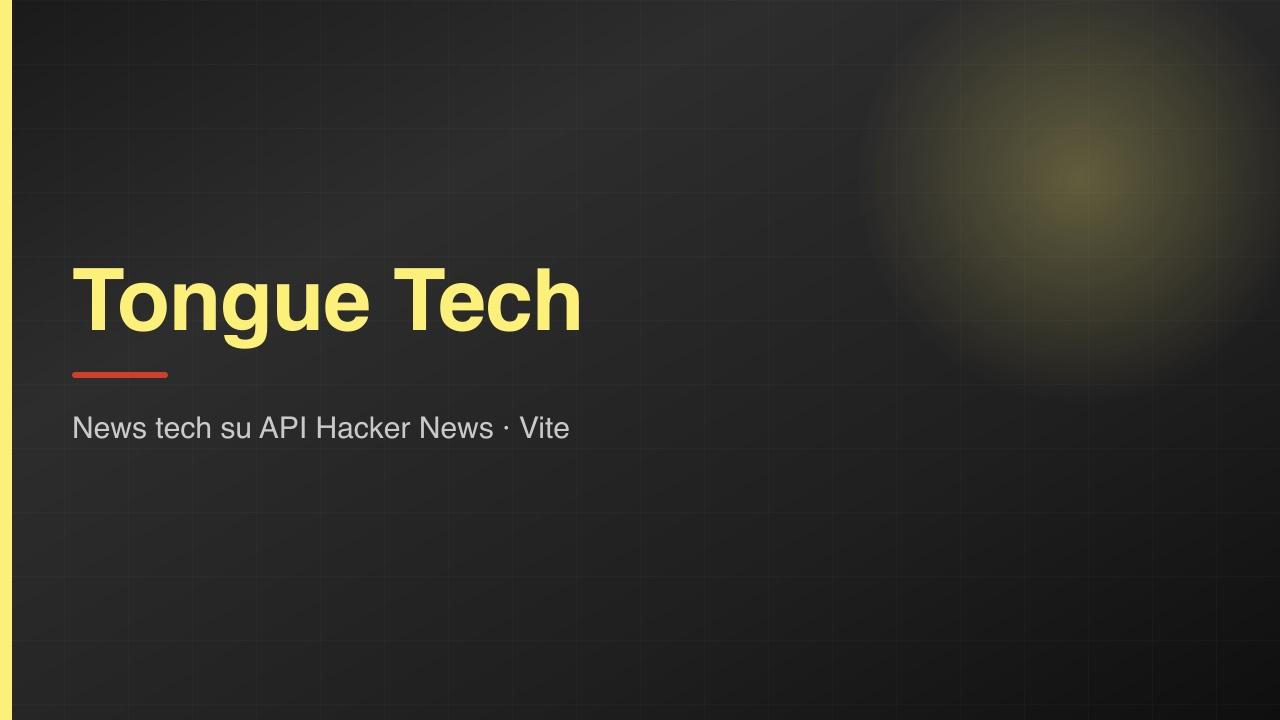
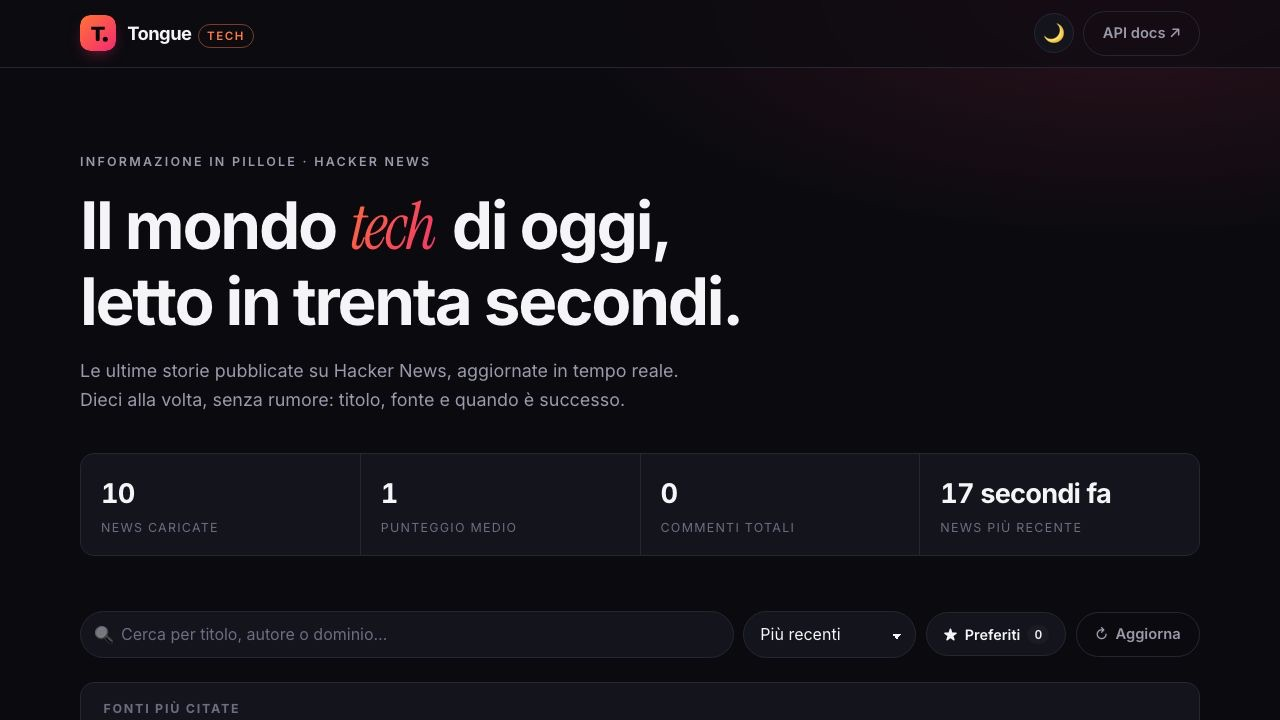
Collega Tongue Tech alla demo pubblicata
Il progetto e' online su turbor93.github.io/tongue-tech-news: il pulsante
"Prova la demo" precede ora quello al codice, perche' un'applicazione che
si puo' usare vale piu' di un repository da leggere.

Sostituita anche la copertina: al posto della tavola tipografica di ripiego
c'e' una schermata reale dell'applicazione, catturata dalla versione
pubblicata. La descrizione cita di conseguenza cosa fa davvero: carica le
storie in tempo reale dieci alla volta, con ricerca, ordinamento e
preferiti.

diff --git a/progetti/tongue-tech.html b/progetti/tongue-tech.html
@@ -100,14 +100,14 @@
           <div>
             <div class="detail__hero tilt">
               <div class="tilt__zones" aria-hidden="true"><span></span><span></span><span></span><span></span><span></span><span></span><span></span><span></span><span></span></div>
-              <img src="../assets/img/portfolio/tongue-tech/tongue-tech-1.jpg" alt="Copertina del progetto Tongue Tech"
+              <img src="../assets/img/portfolio/tongue-tech/tongue-tech-1.jpg" alt="Interfaccia di Tongue Tech con le ultime storie da Hacker News"
                    width="1280" height="720">
             </div>
 
             <h2 class="sr-only">Descrizione del progetto</h2>
             <div class="detail__body reveal">
               <p>Il progetto è nato come esercizio di architettura più che di interfaccia. L'applicazione è organizzata a livelli — Repository per l'accesso ai dati, Observer per la propagazione degli aggiornamenti, Facade come punto di accesso unico — con copertura di test automatici su ciascuno.</p>
-              <p>La separazione fra livelli consente di sostituire la sorgente dei dati senza intervenire sulla presentazione, e di verificare la logica indipendentemente dal rendering.</p>
+              <p>La separazione fra livelli consente di sostituire la sorgente dei dati senza intervenire sulla presentazione, e di verificare la logica indipendentemente dal rendering. L'applicazione è pubblicata e consultabile: carica le storie in tempo reale dieci alla volta, con ricerca, ordinamento e preferiti.</p>
 
               <ul class="detail__points">
                 <li>Architettura a livelli: Repository, Observer, Facade</li>
@@ -147,6 +147,10 @@
             <div class="contact-card">
               <h3>Collegamenti</h3>
               <div class="stack" style="gap: .75rem">
+              <a class="btn-brand btn-brand--outline-light" href="https://turbor93.github.io/tongue-tech-news/" target="_blank" rel="noopener noreferrer">
+                Prova la demo
+                <svg viewBox="0 0 24 24" fill="none" stroke="currentColor" stroke-width="2" stroke-linecap="round" aria-hidden="true"><path d="M18 13v6a2 2 0 0 1-2 2H5a2 2 0 0 1-2-2V8a2 2 0 0 1 2-2h6M15 3h6v6M10 14 21 3"/></svg>
+              </a>
               <a class="btn-brand btn-brand--outline-light" href="https://github.com/TurboR93/tongue-tech-news" target="_blank" rel="noopener noreferrer">
                 Codice su GitHub
                 <svg viewBox="0 0 24 24" fill="none" stroke="currentColor" stroke-width="2" stroke-linecap="round" aria-hidden="true"><path d="M18 13v6a2 2 0 0 1-2 2H5a2 2 0 0 1-2-2V8a2 2 0 0 1 2-2h6M15 3h6v6M10 14 21 3"/></svg>

diff --git a/progetti.html b/progetti.html
@@ -143,7 +143,7 @@
             </a>
             <a class="poster poster--l is-prodotti" href="progetti/tongue-tech.html">
               <div class="poster__media">
-                <img src="assets/img/portfolio/tongue-tech/tongue-tech-1.jpg" alt="Copertina del progetto Tongue Tech"
+                <img src="assets/img/portfolio/tongue-tech/tongue-tech-1.jpg" alt="Interfaccia di Tongue Tech con le ultime storie da Hacker News"
                      width="1280" height="720" loading="lazy">
                 <div class="poster__veil" aria-hidden="true"></div>
               </div>
